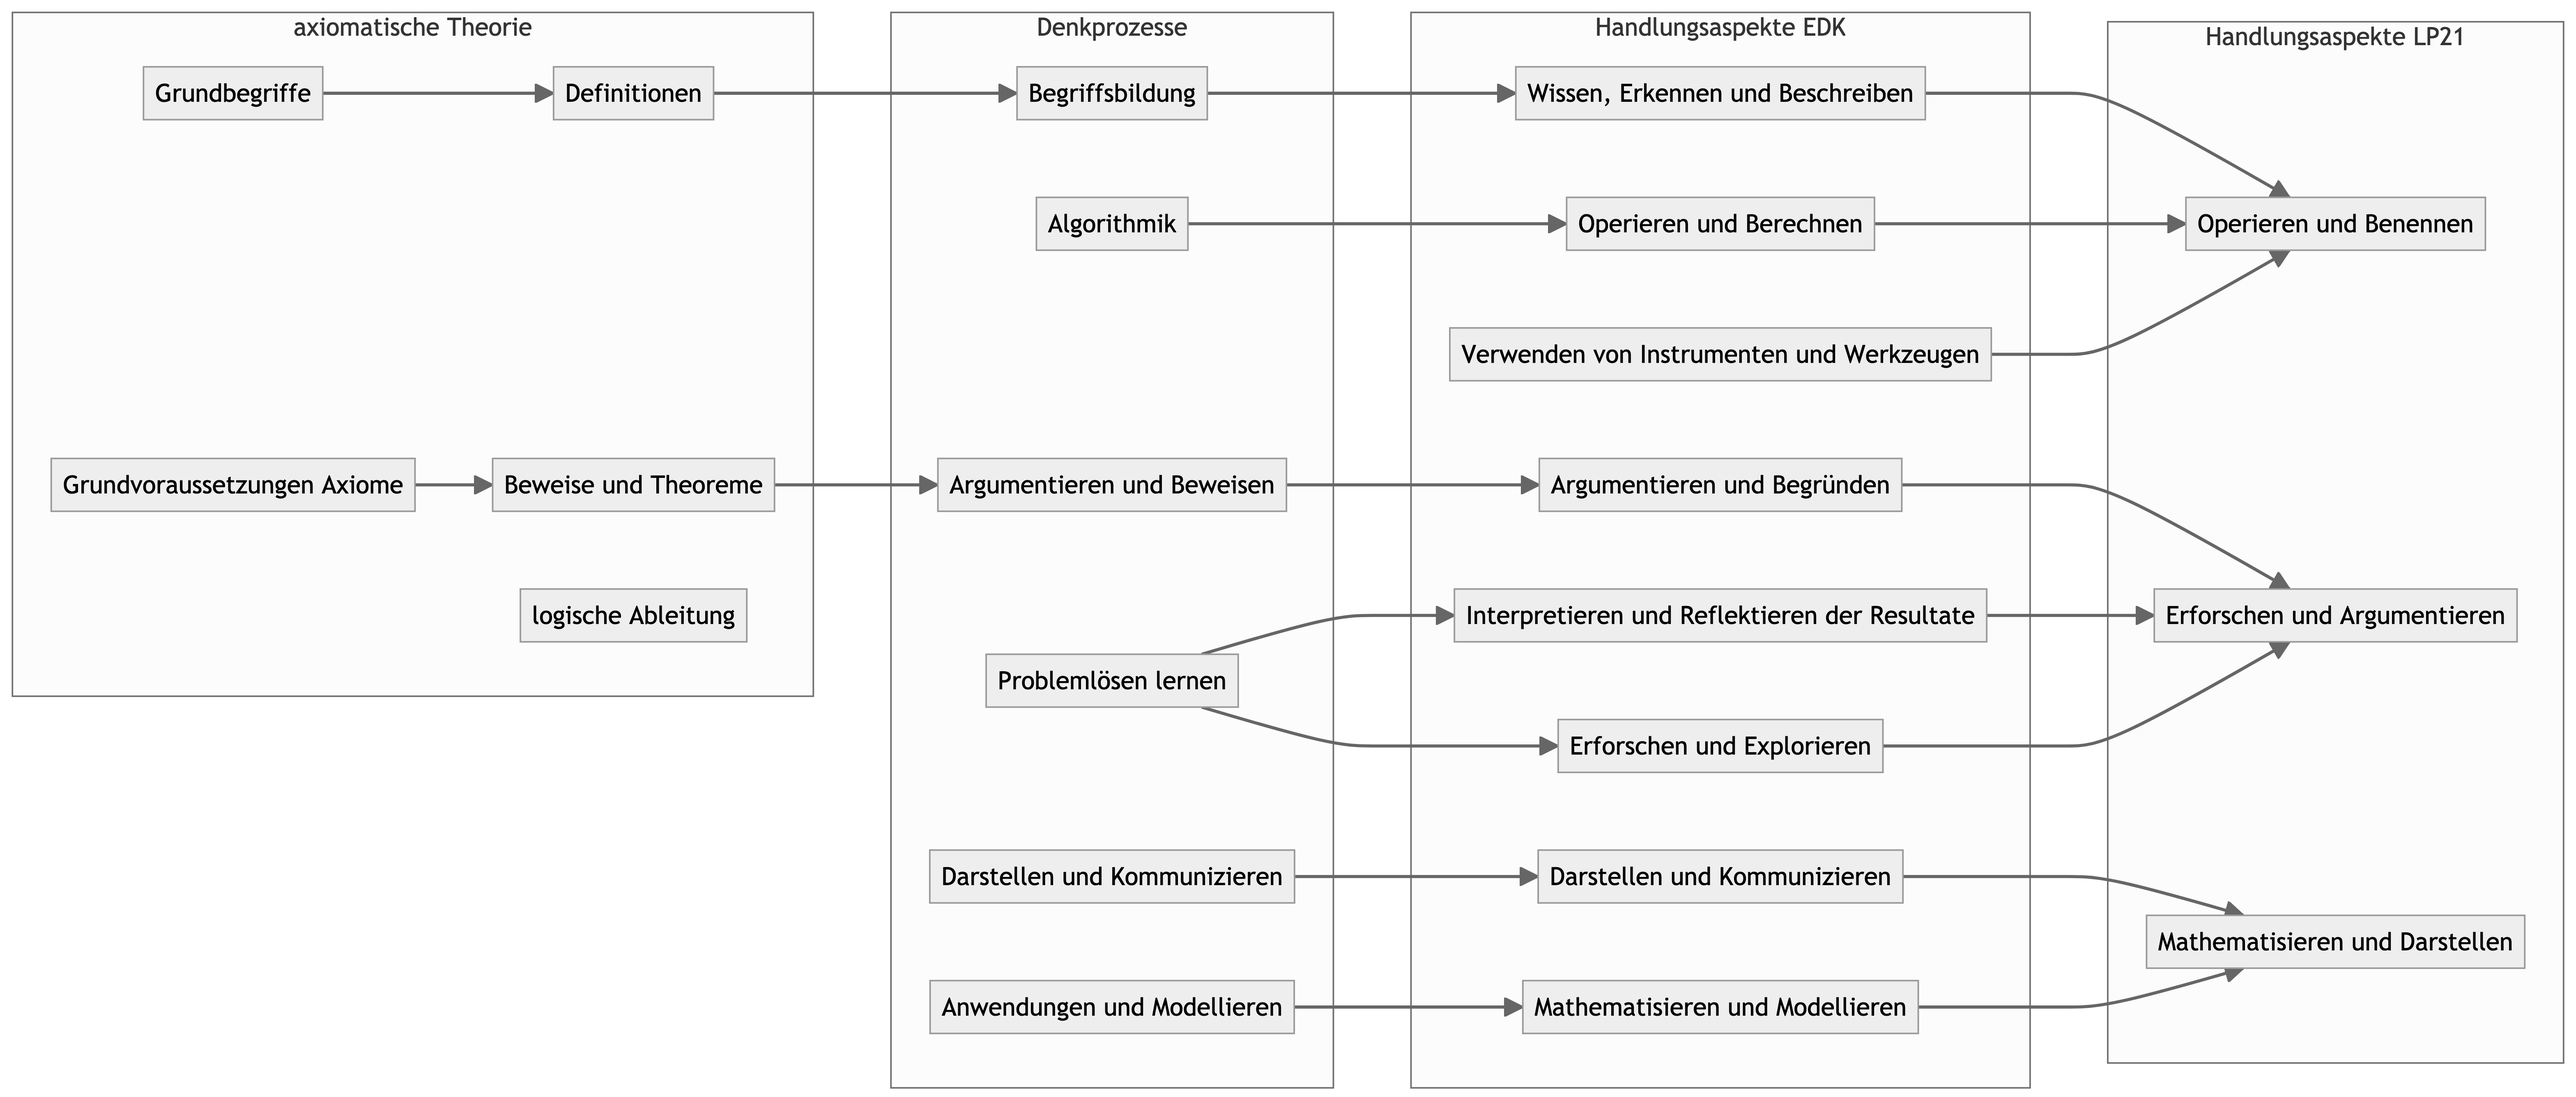
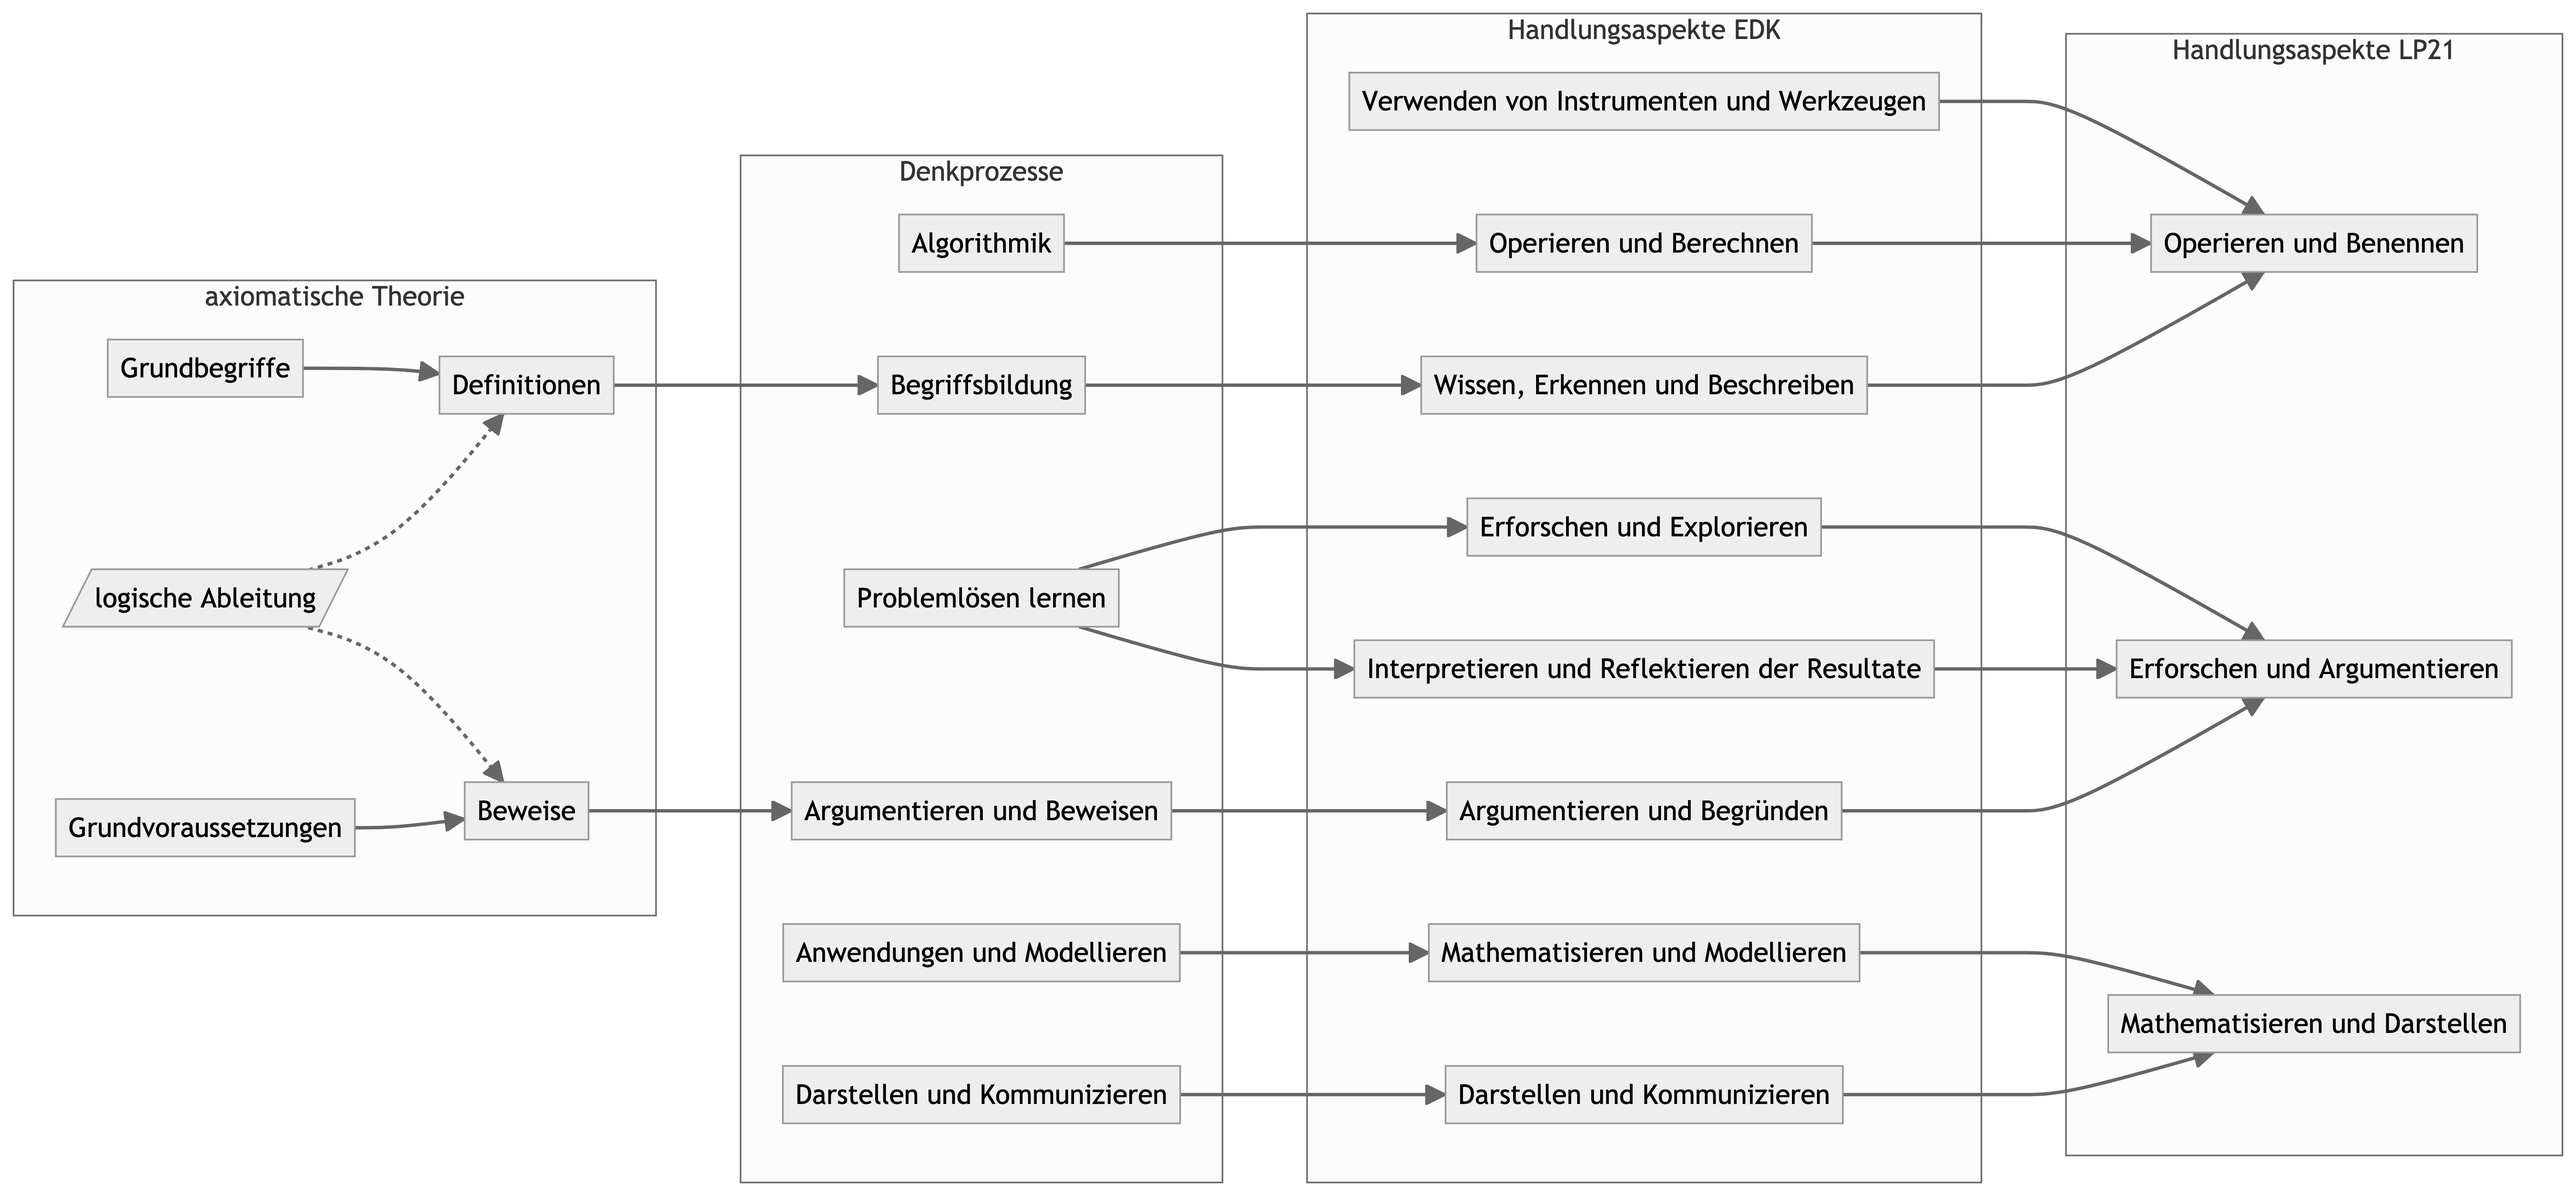
Hilbert hinzugefügt

diff --git a/docs/lerngelegenheiten/LG_math_summative_praes/woche_03.html b/docs/lerngelegenheiten/LG_math_summative_praes/woche_03.html
@@ -502,7 +502,7 @@ Abbildung&nbsp;1: Übersicht Fachinhalte und Fachkompetenzbereiche
 <div>
 <p></p><figure class=""><p></p>
 <div>
-<p><img data-src="woche_03_files/figure-revealjs/mermaid-figure-2.png" style="width:17.28in;height:7.38in"></p>
+<p><img data-src="woche_03_files/figure-revealjs/mermaid-figure-2.png" style="width:15.86in;height:7.38in"></p>
 </div>
 <p></p></figure><p></p>
 </div>
@@ -520,6 +520,11 @@ Abbildung&nbsp;2: Übersicht der Prozesse und Handlungsaspekte
 <p>Handlungsaspekte EDK nach <span class="citation" data-cites="edk2011">EDK (<a href="#/bibliographie" role="doc-biblioref" onclick="">2011</a>)</span></p>
 <p>Handlungsaspekte LP21 nach <span class="citation" data-cites="bildungs-_und_kulturdirektion_des_kantons_bern_strukturelle_2016">Bildungs- und Kulturdirektion des Kantons Bern (<a href="#/bibliographie" role="doc-biblioref" onclick="">2016</a>)</span></p>
 </div>
+<p>Hinweise:</p>
+<ul>
+<li>Beweise beweisen Aussagen welche dann je nach Kontext Theoreme, Sätze, Lemmas, Korrolare, u.s.w. genannt werden.</li>
+<li>Grundvoraussetzungen werden heute Axiome genannt und werden typischerweise zu Axiomensystemen gebündelt.</li>
+</ul>
 </section></section>
 <section>
 <section id="lehrplan-21" class="title-slide slide level1 center">
